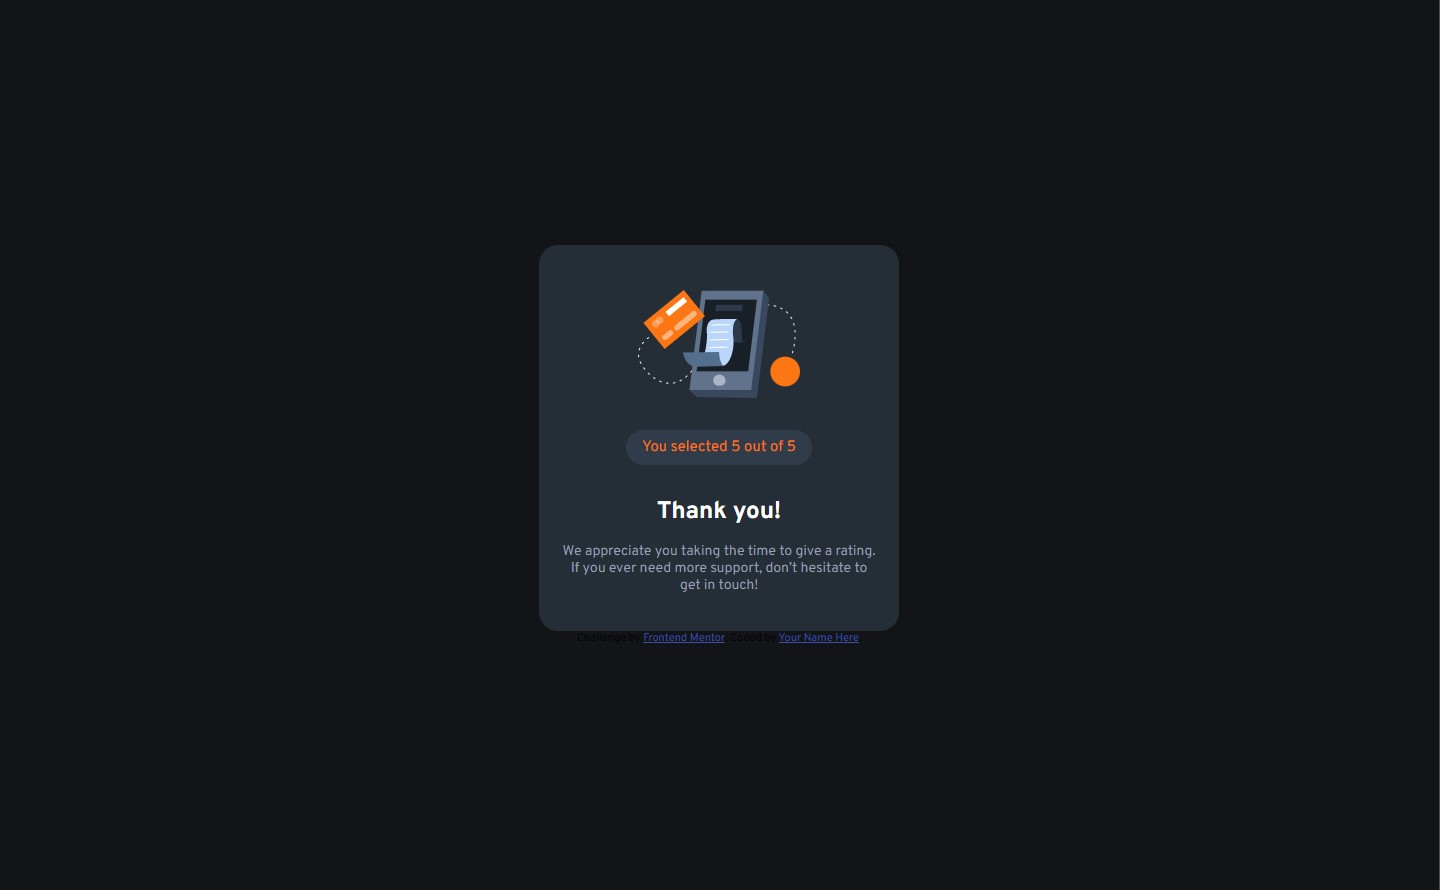
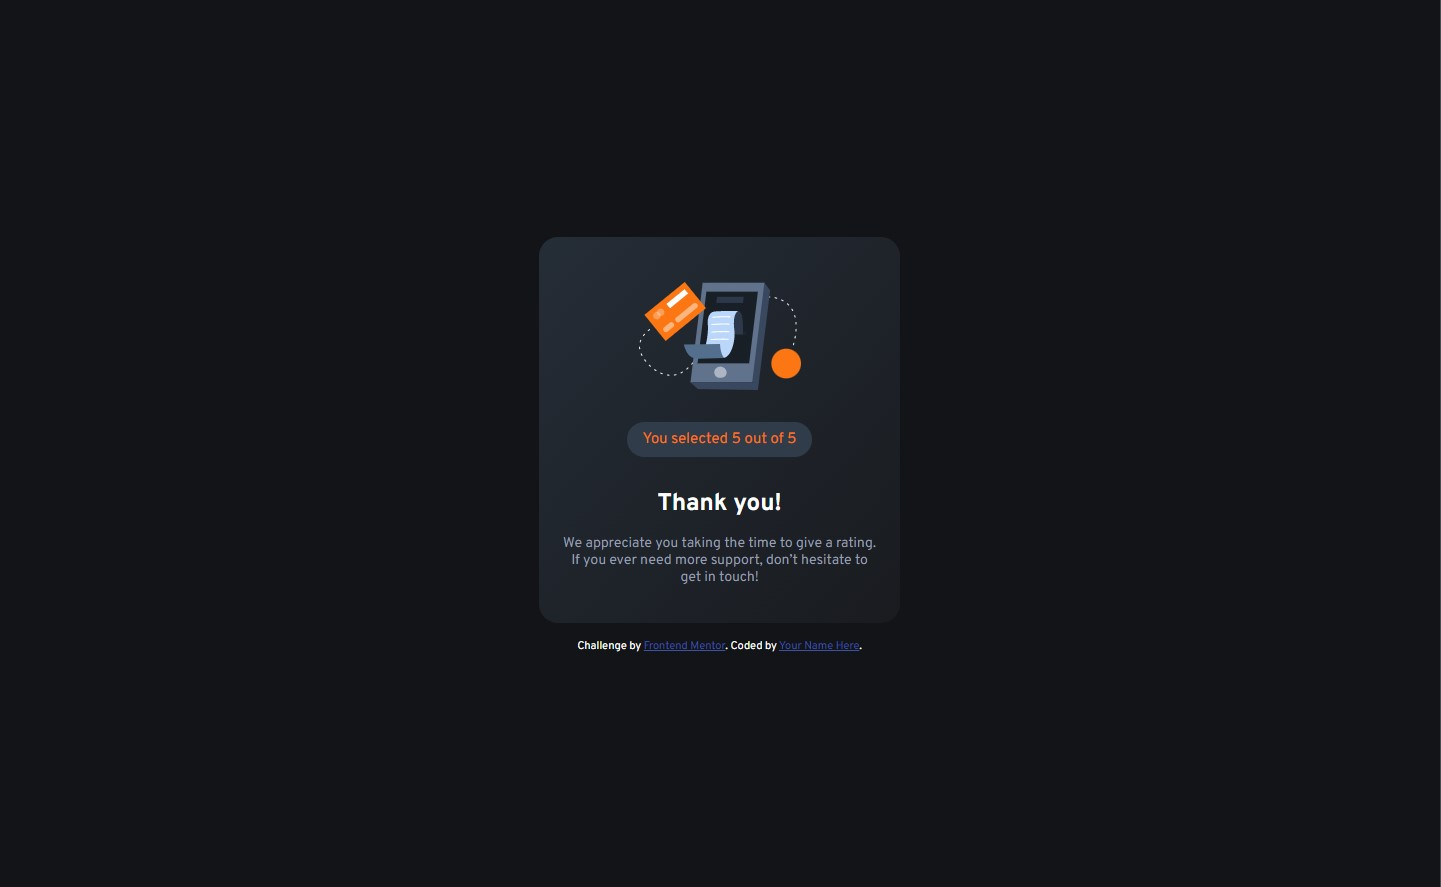
correction bg and mobile size

diff --git a/Style/style.css b/Style/style.css
@@ -38,10 +38,10 @@ body {
 }
 
 .rating-component {
-  max-width: 90%;
+  max-width: 98%;
   background: -webkit-gradient(linear, left top, right bottom, from(var(--card-background-color-primary)), to(var(--card-background-color-secondary)));
   background: linear-gradient(to right bottom, var(--card-background-color-primary), var(--card-background-color-secondary));
-  padding: 1.3rem;
+  padding: 2rem;
   border-radius: 1.2rem;
   margin-bottom: 1rem;
 }
@@ -125,10 +125,10 @@ body {
 }
 
 .thanking-component {
-  max-width: 90%;
+  max-width: 98%;
   background: -webkit-gradient(linear, left top, right bottom, from(var(--card-background-color-primary)), to(var(--card-background-color-secondary)));
   background: linear-gradient(to right bottom, var(--card-background-color-primary), var(--card-background-color-secondary));
-  padding: 1.3rem;
+  padding: 2rem;
   border-radius: 1.2rem;
   display: -webkit-box;
   display: -ms-flexbox;

diff --git a/Style/style.scss b/Style/style.scss
@@ -28,13 +28,13 @@ body {
 }
 
 .rating-component {
-  max-width: 90%;
+  max-width: 98%;
   background: linear-gradient(
     to right bottom,
     var(--card-background-color-primary),
     var(--card-background-color-secondary)
   );
-  padding: 1.3rem;
+  padding: 2rem;
   border-radius: 1.2rem;
   margin-bottom: 1rem;
 
@@ -97,13 +97,13 @@ body {
   }
 }
 .thanking-component {
-  max-width: 90%;
+  max-width: 98%;
   background: linear-gradient(
     to right bottom,
     var(--card-background-color-primary),
     var(--card-background-color-secondary)
   );
-  padding: 1.3rem;
+  padding: 2rem;
   border-radius: 1.2rem;
   display: flex;
   flex-direction: column;
